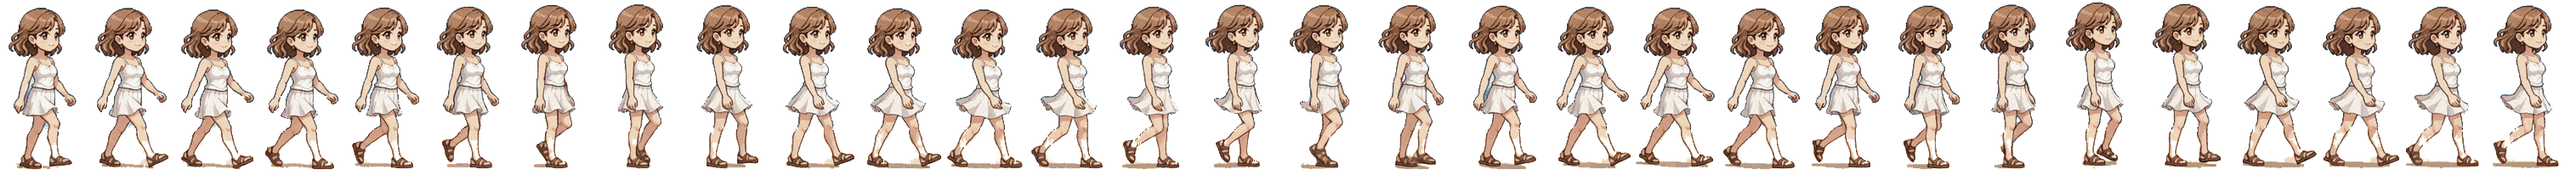
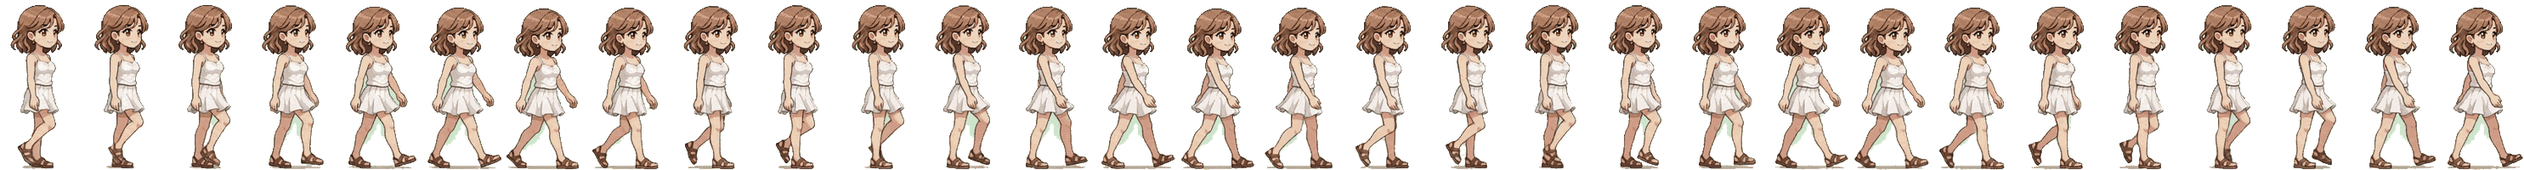
ミオ（ボブ）の 歩きを 緑の 背景で 作りなおした GIF に 入れかえ（足もとの 砂・波が なくなった）
Claude-Session: https://claude.ai/code/session_01PV2MDoW8eYpCQDB9M9yore

diff --git a/sw.js b/sw.js
@@ -2,7 +2,7 @@
 // 更新が届かない端末が出ないように：
 //  - インストール時は画面の部品だけを保存する（音声40MBを一度に取りにいくと、1つ失敗しただけで更新が止まるため）。音声は聞いたときに保存
 //  - いつもネットの最新版を先に取りにいき（変わっていなければ304で軽い）、つながらない・遅いときだけ保存した物を使う
-const CACHE='hoshienglish-v355',AUD='hoshienglish-audio',MIOC='hoshienglish-mio';
+const CACHE='hoshienglish-v356',AUD='hoshienglish-audio',MIOC='hoshienglish-mio';
 const CORE=['./','index.html','manifest.webmanifest','icon-192.png','icon-512.png','apple-touch-icon.png','beach/scene.js','beach/scene.css','beach/host.js','beach/host-after.js','game/se.js','game/levels/index.js','game/levels/es.js','game/levels/jh.js','game/levels/jh-more.js','game/levels/hs.js','game/levels/hs-more.js','game/levels/adv.js','game/levels/adv-more.js','game/levels/basic-add.js','game/extras/pop.js','game/extras/season.js','game/extras/folk.js','game/extras/cheer.js','game/extras/talk.js','game/grammar/es.js','game/grammar/jh.js','game/grammar/hs.js','game/catalog.js','game/music-lofi.js','game/game.js','game/recent.js','game/adventure.js','game/cards-data.js','game/cards.js','game/cards.css','game/mina-lines.js','game/mina-talk.js','game/mina-sense.js','game/mina.js','game/mina.css','game/lessons/index.js','game/lessons/es.js','game/lessons/jh.js','game/lessons/hs.js','game/lessons/manabi.js','game/lessons/icons.js','game/lesson.js','game/gram-link.js','game/gram-see.js','game/bonus.css','game/motivate.js','game/motivate.css','game/review.js','game/review.css','game/kaiwa-data.js','game/kaiwa-story.js','game/kaiwa.js','game/kaiwa.css','game/sensei-data.js','game/sensei-drill-more.js','game/sensei-scenes.js','game/sensei.js','game/deep-data.js','game/deep-more.js','game/deep.js','game/sensei.css','game/adventure.css','game/game.css','game/bottle.js','game/bottle.css','game/zakka-data.js','game/zakka-more.js','game/zakka-talk.js','game/zakka-goods.js','game/zakka-goods-talk.js','game/zakka-now.js','game/zakka.js','game/zakka.css','game/tutor-data.js','game/tutor-more.js','game/tutor-teach.js','game/tutor-talk.js','game/tutor.js','game/tutor.css','game/gift-data.js','game/gift-vary.js','game/gift-quick.js','game/gift.js','game/gift.css','game/love-data.js','game/love-more.js','game/love-extra.js','game/love-final.js','game/love.js','game/love.css','game/cg-data.js','game/cg.js','game/shop-data.js','game/shop-mutter.js','game/mio.js','game/mio-pix.js','game/look-mix.js','game/mio-doki.js','game/mio-gif.js','game/shop-serve-data.js','game/shop-buyin-data.js','game/shop-serve.js','game/shop-deco.js','game/shop.js','game/cbook.js','game/mine-items.js','game/mine.js','game/mine-story.js','game/mine-rest.js','game/mine-walkie.js','game/ore.js','game/hours.js','game/mio-room.js','game/mio-home.js','game/dungeon-art.js','game/dungeon.js','game/mio-talk.js','game/mio-chat.js','game/mio-love-data.js','game/mio-love.js','game/date-data.js','game/date.js','game/house-data.js','game/house.js','game/fest-data.js','game/fest.js','game/mio-spice.js','game/doki.js','game/mio-memo.js','game/mio-study-data.js','game/mio-study.js','game/mio-ctr-data.js','game/mio-ctr-long.js','game/kaiwa-moved.js','game/mio-ctr.js','game/cg-more.js','game/cg.css','game/shop.css','game/date.css','game/house.css','game/fest.css','game/cbook.css','game/ore.css','game/food-data.js','game/food.js','game/food.css','game/tango-talk.css','game/unchiku-data.js','game/unchiku.js','game/winfo.js','game/winfo-ex.js','game/winfo-data.js','game/winfo-data-tr.js','game/winfo-data-jh.js','game/winfo-data-jh2.js','game/winfo-data-fill.js','game/winfo-data-add.js','game/winfo-roots.js','game/winfo-roots-hs.js','game/winfo-roots-adv.js','game/winfo-roots2.js','game/winfo-roots-hs2.js','game/winfo-roots-adv2.js','game/winfo-roots-adv3.js','game/winfo-roots-adv4.js','game/winfo-roots-tr.js','game/winfo-memo.js','game/winfo-memo-jh.js','game/winfo-memo-jh2.js','game/winfo-memo-hs.js','game/winfo-memo-hs2.js','game/winfo-memo-adv.js','game/winfo-memo-adv2.js','game/winfo-memo-adv3.js','game/winfo-memo-adv4.js','game/winfo-memo-adv5.js','game/abbr.js','game/mina-react-data.js','game/mina-react.js','game/mina-chat-data.js','game/mina-chat.js','game/tango-talk.js','game/horror-data.js','game/horror.js','game/search.js','game/wordtap.js','game/horror.css','game/study-data.js','game/study.js','game/study.css','game/unit.js','game/unit-lines.js','game/modal-data.js','game/modal.js','game/unit-perfect.js','game/unit-comp.js','game/unit-shikumi.js','game/verb-check.js','game/drill-jp.js','game/shikumi-drill.js','game/teach-why.js','game/teach-why2.js','game/unit-auto.js','game/unit-jp.js','game/mina-qa.js','game/mame.js','game/mini-place.js','game/mame.css','game/practice.js','game/kata.js','game/kata.css','game/mina-kotsu.js','game/mina-plan.js','game/gram-go.js','game/modal.css','game/plan.css'];
 self.addEventListener('install',e=>{e.waitUntil(caches.open(CACHE).then(c=>Promise.all(CORE.map(u=>fetch(u,{cache:'reload'}).then(r=>{if(r.ok)return c.put(u,r)}).catch(()=>{})))).then(()=>self.skipWaiting()))});
 self.addEventListener('activate',e=>{e.waitUntil(caches.keys().then(ks=>Promise.all(ks.filter(k=>k!==CACHE&&k!==AUD&&k!==MIOC).map(k=>caches.delete(k)))).then(()=>self.clients.claim()))});
